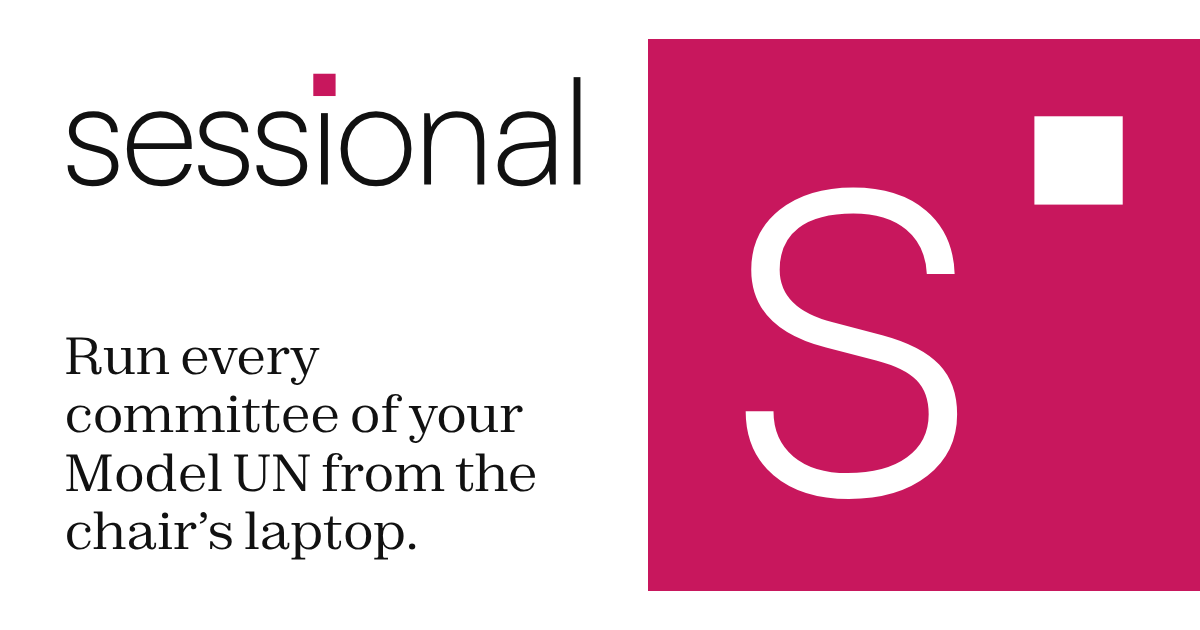
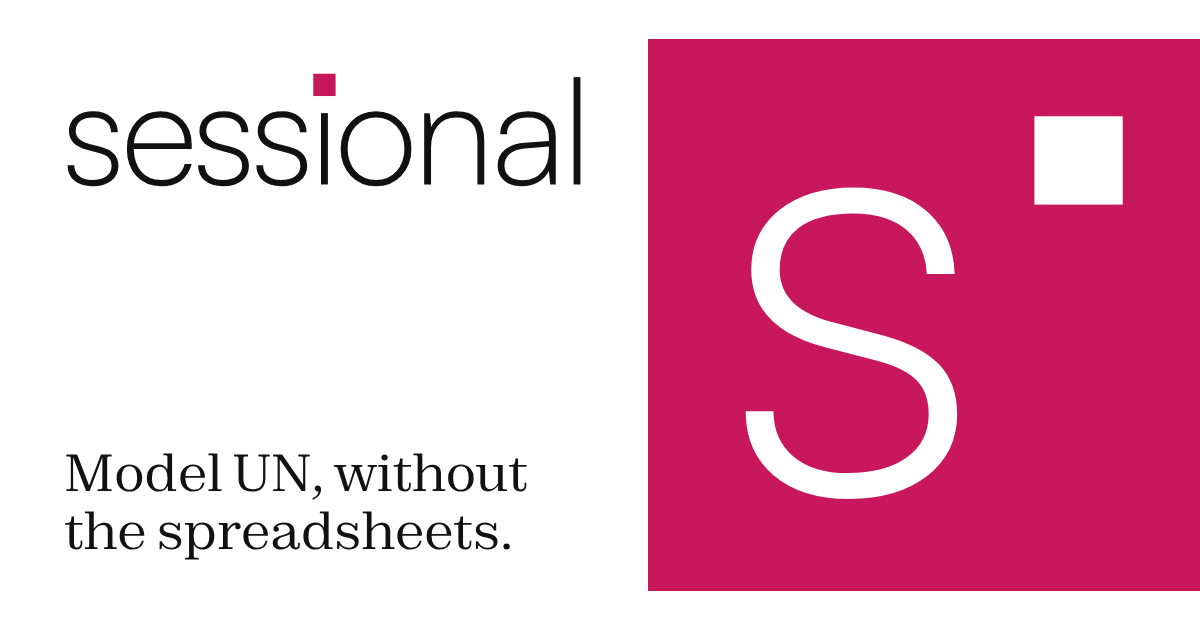
New home page headline: "Model UN, without the spreadsheets."
English and Spanish headline and a shorter line under it; the link previews (English, Spanish)
re-rendered with the new headline; tests updated.

Claude-Session: https://claude.ai/code/session_01CMGGhvR3LVLjqocqcCypTW

Changed region(s): [[0.0617, 0.6333, 0.4625, 0.7841], [0.0617, 0.8143, 0.4317, 0.9048], [0.0308, 0.5429, 0.2775, 0.6032]]

diff --git a/tests/e2e/home.spec.ts b/tests/e2e/home.spec.ts
@@ -42,7 +42,7 @@ test('the favicons, home-screen icons and link preview are the Sessional ones', 
 
 test('the landing page lists what Sessional does, in English and Spanish, with no “coming next” list', async ({ page }) => {
   await page.goto('/');
-  await expect(page.getByRole('heading', { level: 1 })).toHaveText("Run every committee of your Model UN from the chair’s laptop.");
+  await expect(page.getByRole('heading', { level: 1 })).toHaveText("Model UN, without the spreadsheets.");
   for (const name of ['How a session runs', 'Every screen, from the chair’s console', 'For the people organizing it', 'Your conference, your words', 'Pricing', 'Questions']) {
     await expect(page.getByRole('heading', { level: 2, name })).toBeVisible();
   }
@@ -56,7 +56,7 @@ test('the landing page lists what Sessional does, in English and Spanish, with n
 
   await page.getByRole('link', { name: 'Español' }).click();
   await expect(page).toHaveURL(/lang=es/);
-  await expect(page.getByRole('heading', { level: 1 })).toHaveText('Dirige cada comité de tu Modelo de la ONU desde la laptop de la mesa.');
+  await expect(page.getByRole('heading', { level: 1 })).toHaveText('Modelo de la ONU, sin hojas de cálculo.');
   await expect(page.getByRole('link', { name: 'English' })).toBeVisible();
 });
 

diff --git a/tests/e2e/app.spec.ts b/tests/e2e/app.spec.ts
@@ -52,5 +52,5 @@ test('the wordmark on the account sign-in page leads to the main website', async
   await page.goto(app('/login'));
   await page.getByRole('banner').getByRole('link', { name: 'Sessional, home' }).click();
   await expect(page).toHaveURL(`http://localhost:${PORT}/`);
-  await expect(page.getByRole('heading', { level: 1 })).toHaveText('Run every committee of your Model UN from the chair’s laptop.');
+  await expect(page.getByRole('heading', { level: 1 })).toHaveText('Model UN, without the spreadsheets.');
 });
